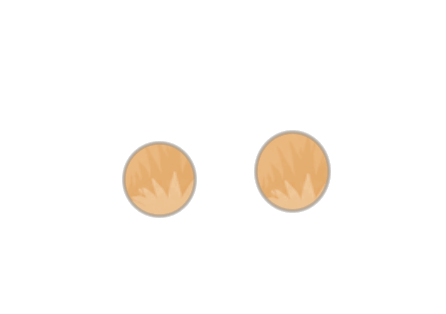
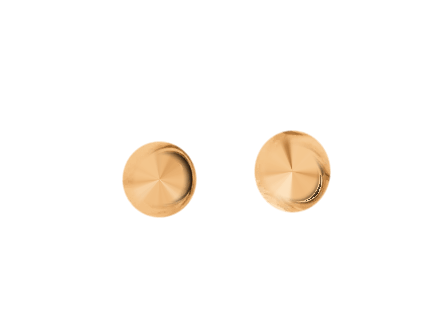
小程序: 眨眼闭眼帧去圆形切边——眼窝底毛改纯毛环采样+先混回原图色后渐隐+直写直色alpha

Changed region(s): [[0.5538, 0.4013, 0.7578, 0.6879], [0.2623, 0.4299, 0.4664, 0.7166]]

diff --git a/docs/features/miniapp.md b/docs/features/miniapp.md
@@ -38,7 +38,7 @@ flowchart LR
 ### 小程序主界面补充
 
 - 小窝、消息、我的页标题下保留简介；主内容区上边距收紧，底部导航位置不变。
-- 无好友时，小窝邀请界面上方是小多利在纸箱里探头左顾右盼，中部信纸信件（九宫格切片渲染：四角固定不变形、四边单轴拉伸、中心净区补余量；整封信不分段，完整平铺在白纸净区内，不滚动），下方领养提示（小多利独一无二、只能养一只、请认真选择一起养的对象）；底部为邀请分享按钮。切片文件名带版本号（当前 -v4），因同路径图片会被开发者工具缓存供旧图，换图必须升文件名。箱中待机为原图直出 + 眼部木偶拆解方案：身体层（`xiaoduoli-body.png`）是原图直出、一个像素不改；眼部三层全部从同一原图确定性裁切/采样生成——眼眶层（`xiaoduoli-eyes.png`，瞳孔原位以采样虹膜色填充）、瞳孔层（`xiaoduoli-pupils.png`，圆盘裁切）、眼睑层（`xiaoduoli-lids.png`，按眼上下毛色渐变绘制闭眼状态）；静止时与原图逐像素一致，眨眼=眼睑淡入+瞳孔压扁，瞟眼=瞳孔在眼眶内滑动（±1.3%）；各图层 446×314 同坐标叠放，显式 rpx 尺寸对位，瞳孔支点由出件脚本自动生成；领域层按邀请种子生成随机时间线，做眨眼、双眨、左右瞟和小跳，同一房间回放一致，并支持 `prefers-reduced-motion` 降级为静态图。纸箱动画底下铺夜景街角背景（`xiaoduoli-street-v13.png`，贴寻主启事的砖墙与路灯；从 source 原图整幅直切 750:406 舞台比例，边缘烧焦晕染按最暗通道亮度映射为真 alpha；白 matte 内左右两边的炭色云纹靠彩度（chroma≥8）识别恢复——白底无彩度归零、有彩度云纹按彩度强度回填半透明，使左右与上下同为烧焦云撕形朦胧渐隐，画布四周再叠 12~14px 线性 alpha 渐隐兜底保证贴合屏幕边无硬线；740×401 PNG 入包，`aspectFill` 铺满舞台、左右贴屏幕两边，z-index 0 垫底，动画各层照常在其上方；箱体与小多利按 0.58 缩小：箱高 35.5%（底距 5%）、木偶 192×134rpx（整体较原图缩小并上移），落点与眼神动画随 rpx 等比缩放）。
+- 无好友时，小窝邀请界面上方是小多利在纸箱里探头左顾右盼，中部信纸信件（九宫格切片渲染：四角固定不变形、四边单轴拉伸、中心净区补余量；整封信不分段，完整平铺在白纸净区内，不滚动），下方领养提示（小多利独一无二、只能养一只、请认真选择一起养的对象）；底部为邀请分享按钮。切片文件名带版本号（当前 -v4），因同路径图片会被开发者工具缓存供旧图，换图必须升文件名。箱中待机为原图直出 + 眼部木偶拆解方案：身体层（`xiaoduoli-body.png`）是原图直出、一个像素不改；眼部三层全部从同一原图确定性裁切/采样生成——眼眶层（`xiaoduoli-eyes.png`，瞳孔原位以采样虹膜色填充）、瞳孔层（`xiaoduoli-pupils.png`，圆盘裁切）、眼窝底毛层（`xiaoduoli-underlay.png`，逐角度采样椭圆外纯毛区毛色作眼睑色填到 d=0.6、跨睫毛暗环平滑混回原图色（0.6..0.92）后 alpha 才渐隐（0.94..1），眨眼压扁后露出成闭眼眼睑；颜色先于透明度收敛使边界合成逐像素等于原图，圆形切边不可见）；静止时与原图逐像素一致，眨眼=眼组（眼眶+瞳孔）绕瞳孔平均高度支点整体压扁露出底毛成闭眼线，瞟眼=瞳孔在眼眶内滑动（±1.3%）；各图层 446×314 同坐标叠放，显式 rpx 尺寸对位，瞳孔支点由出件脚本自动生成；领域层按邀请种子生成随机时间线，做眨眼、双眨、左右瞟和小跳，同一房间回放一致，并支持 `prefers-reduced-motion` 降级为静态图。纸箱动画底下铺夜景街角背景（`xiaoduoli-street-v13.png`，贴寻主启事的砖墙与路灯；从 source 原图整幅直切 750:406 舞台比例，边缘烧焦晕染按最暗通道亮度映射为真 alpha；白 matte 内左右两边的炭色云纹靠彩度（chroma≥8）识别恢复——白底无彩度归零、有彩度云纹按彩度强度回填半透明，使左右与上下同为烧焦云撕形朦胧渐隐，画布四周再叠 12~14px 线性 alpha 渐隐兜底保证贴合屏幕边无硬线；740×401 PNG 入包，`aspectFill` 铺满舞台、左右贴屏幕两边，z-index 0 垫底，动画各层照常在其上方；箱体与小多利按 0.58 缩小：箱高 35.5%（底距 5%）、木偶 192×134rpx（整体较原图缩小并上移），落点与眼神动画随 rpx 等比缩放）。
 - 好友接受邀请后，小窝仍是同一套箱中探头和信件，只把底部按钮换成「玩家已接受邀请解锁小多利~」；点按钮后播放从箱子跳出、彩带和星光，随后进入站立小多利与互动。已有小窝在本机记为已解锁，不会重播。
 - 锁定/空状态信件场景（`shouldLockNestPageScroll` 为 true）由 `MiniappNestView` 渲染进 `.nest-lock-layer` 固定全屏层（`position: fixed; inset: 0; z-index: 19; overflow-y: auto`，padding 与 `.home-page` 一致），底部邀请/解锁按钮与反馈文案经 `footer` prop 一并渲染在层内：页面文档流高度归零，真机不再出现「除底部栏外整页可拖动」的页面级滚动（信纸 + 街景 + 底部留白原本合计超过一屏），超矮机型由层内滚动兜底；loading 与解锁后的活跃态仍走原文档流，消息/日历/我的页不受影响。
 - 小窝支持读取共同记忆、删除共同记忆，并展示双方贡献榜。小窝顶部不再展示「好友名 · Lv」房间芯片行；多房间的切换入口在消息页会话列表，避免测试好友名字堆在小窝上方。
@@ -159,7 +159,7 @@ npm run build:weapp --prefix miniapp
 | `nest/xiaoduoli-body.png` | 446×314 | 34 KB | 箱中探头身体层（原图直出，未作任何修补） |
 | `nest/xiaoduoli-eyes.png` | 446×314 | 10 KB | 眼眶底层（瞳孔原位以采样虹膜色填充，供瞳孔滑动） |
 | `nest/xiaoduoli-pupils.png` | 446×314 | 4 KB | 瞳孔圆盘层（瞟眼时在眼眶内滑动） |
-| `nest/xiaoduoli-lids.png` | 446×314 | 2 KB | 闭眼眼睑层（眨眼时淡入） |
+| `nest/xiaoduoli-underlay.png` | 446×314 | 9 KB | 眼窝底毛层（纯毛环采样+边界融色，眨眼压扁露出成闭眼眼睑，无圆形切边） |
 | `messages-empty-v2.png` | 520×411 | 28 KB | 消息页无好友空态：抱信封小狗 |
 | `journal/polaroid-run-v2.png` | 420×406 | 36 KB | 写日记页默认奔跑小狗拍立得，点击可换自己的照片 |
 | `journal/polaroid-sit-v2.png` | 420×373 | 33 KB | 小记今日日记卡默认坐姿小狗拍立得 |

diff --git a/docs/features/assets-and-performance.md b/docs/features/assets-and-performance.md
@@ -40,7 +40,7 @@ flowchart LR
 1. **出生即分层**（首选）：分组 SVG / 分层位图源，所有部件同一画布、同一位姿。
 2. **原图直出 + 覆盖件**（小多利现行方案）：底图直接使用原图、一个像素不改；可动部件用**确定性裁切 + 羽化边 + 平滑区域采样填充**从同一原图生成覆盖层——静止时与原图逐像素一致、完全隐形，动画时靠覆盖件自身表达（瞳孔滑动、眼睑淡入等）。
 
-- **出件**：`miniapp/tools/build-xiaoduoli-parts.mjs`（零依赖）从 `design-assets/nest/xiaoduoli-peek-source.png` 直出 `xiaoduoli-body.png`（原图）与眼部木偶三层 `xiaoduoli-eyes.png`（眼眶，瞳孔原位以采样虹膜色填充）/ `xiaoduoli-pupils.png`（瞳孔圆盘）/ `xiaoduoli-lids.png`（闭眼眼睑）（均 446×314 全画布、同坐标叠放，运行时显式 rpx 尺寸对位，无需手工标定百分比）。
+- **出件**：`miniapp/tools/build-xiaoduoli-parts.mjs`（零依赖）从 `design-assets/nest/xiaoduoli-peek-source.png`（缺失时回退用与其逐像素同源的 `xiaoduoli-body.png` 作像素源）直出 `xiaoduoli-body.png`（原图）与眼部木偶三层 `xiaoduoli-eyes.png`（眼眶，瞳孔原位以采样虹膜色填充）/ `xiaoduoli-pupils.png`（瞳孔圆盘）/ `xiaoduoli-underlay.png`（眼窝底毛：逐角度采样椭圆外纯毛区毛色，先按 smoothstep 混回原图色、后 alpha 渐隐——覆盖层边界在合成结果中逐像素不可见，这是「无切边」的硬约束）（均 446×314 全画布、同坐标叠放，运行时显式 rpx 尺寸对位，无需手工标定百分比）。覆盖层半透明边必须直写直色（非预乘）RGBA：累积式 `blendPx` 会把颜色按 alpha 预乘变暗，运行时按直色合成会显出暗弧（旧版眨眼圆形切边的直接成因）。
 - **几何自动生成**：瞳孔支点等几何由脚本按眼部标定计算，写入 `miniapp/src/features/main/xiaoduoli-box-parts.generated.scss`（勿手改）和 `miniapp/tools/xiaoduoli-parts.report.json`（供测试断言与文档登记）。
 - **复用优先**：新增表情/动作优先用领域时间线 + CSS 变换组合现有图层实现；只有确需新部件时才改源并重跑脚本。改完源必须重跑脚本并同步 manifest 与文档。
 
